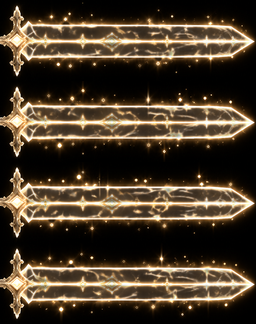
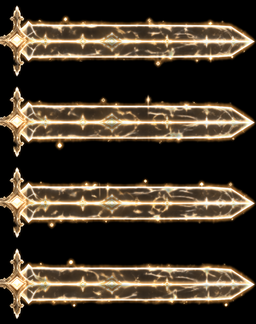
Radiant Blade: blade only — no sparkles or glow halo around it
Claude-Session: https://claude.ai/code/session_019q8CMrxghbNzj8w42KsHoP

diff --git a/src/scenes/LegacyCourtyardScene.ts b/src/scenes/LegacyCourtyardScene.ts
@@ -591,7 +591,7 @@ export class LegacyCourtyardScene extends Phaser.Scene {
       this.beamGlow = this.add.image(0, 0, 'radiant-blade', 0).setOrigin(17.6 / 256, 0.5).setBlendMode(Phaser.BlendModes.ADD).setTint(0xffd27a);
     }
     if (!this.beam || !this.beamGlow) return;
-    this.beam.setVisible(on); this.beamGlow.setVisible(on);
+    this.beam.setVisible(on); this.beamGlow.setVisible(false); // no extra glow layer: the blade art only
     if (!on) return;
     const b = pose.blade!, sp = this.view!.sprite, k = this.kin;
     const hx = sp.x + b[0], hy = sp.y + b[1], dx = b[2] - b[0], dy = b[3] - b[1], len = Math.hypot(dx, dy) * 2.7, ang = Math.atan2(dy, dx) * (180 / Math.PI);
